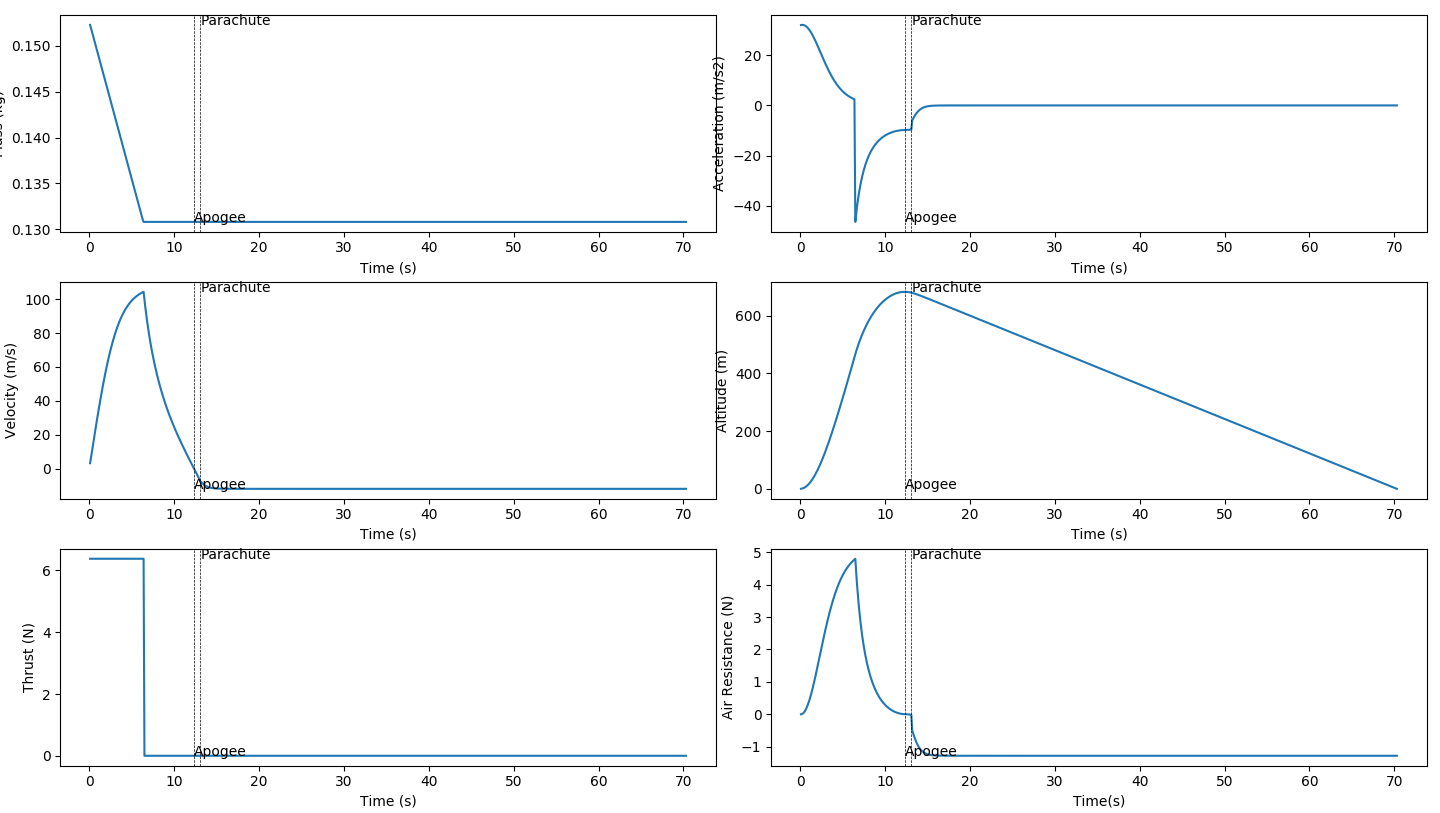
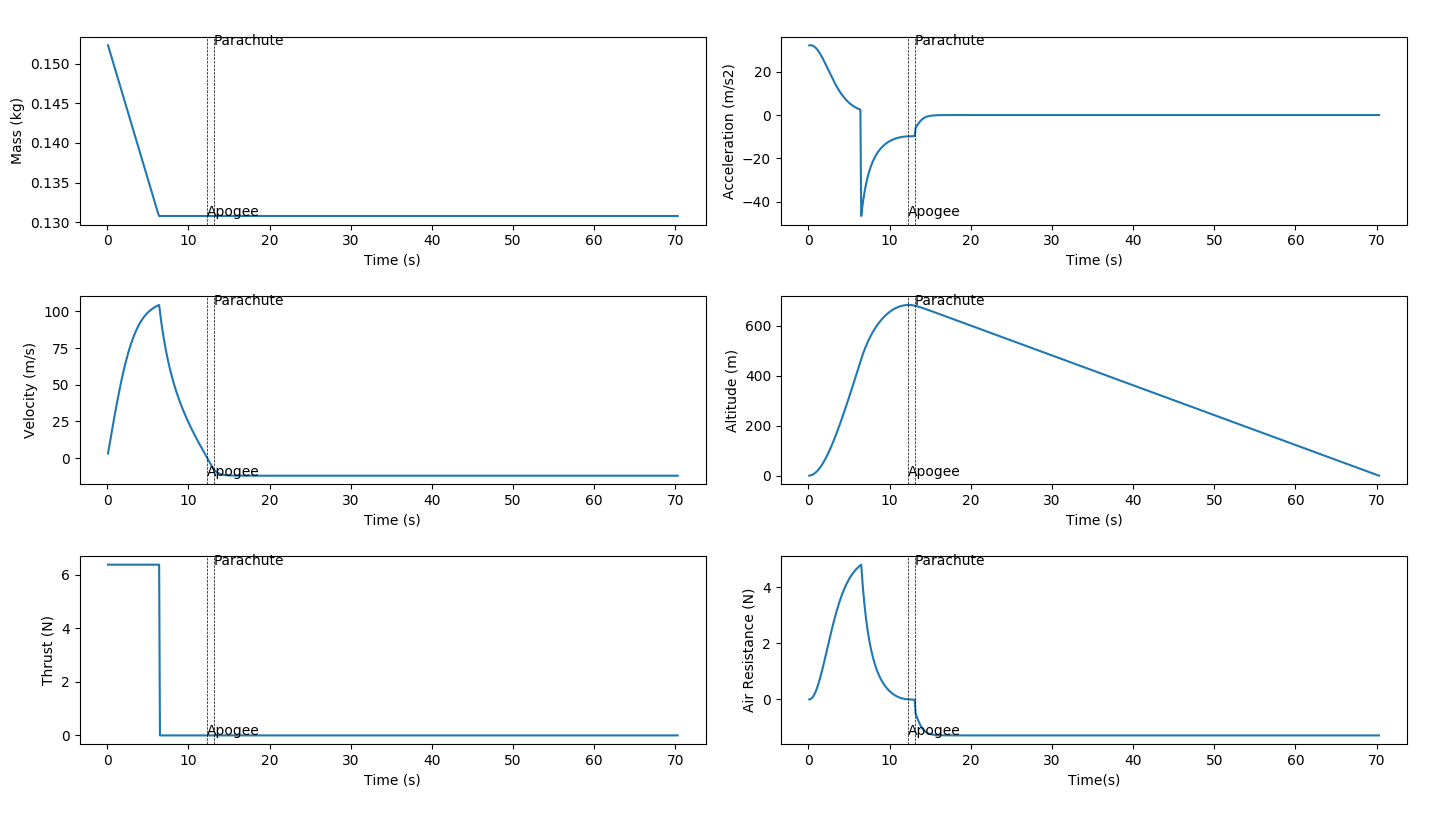
fixed images

diff --git a/rocket_sim/graphics.py b/rocket_sim/graphics.py
@@ -30,5 +30,5 @@ def time_series_plot_group(title, plot_data):
             if index < len(plot_data):
                 time_series_subplot(col, *plot_data[index])
 
-    plt.tight_layout()
+    plt.tight_layout(pad=3)
     plt.show()

diff --git a/README.md b/README.md
@@ -1,5 +1,5 @@
 # Rocket Simulator
-Given a description of a rocket, the program simulates the thrust, acceleration, velocity, altitude, and air-resistance of the rocket as it flies directly upwards. Below shows some example rockets.
+Given a description of a rocket, the program simulates the mass, thrust, acceleration, velocity, altitude, and air-resistance of the rocket as it flies directly upwards. Below shows some example rockets.
 
 ### Single Stage 
 <img src="images/single_stage.png" width=600/>
